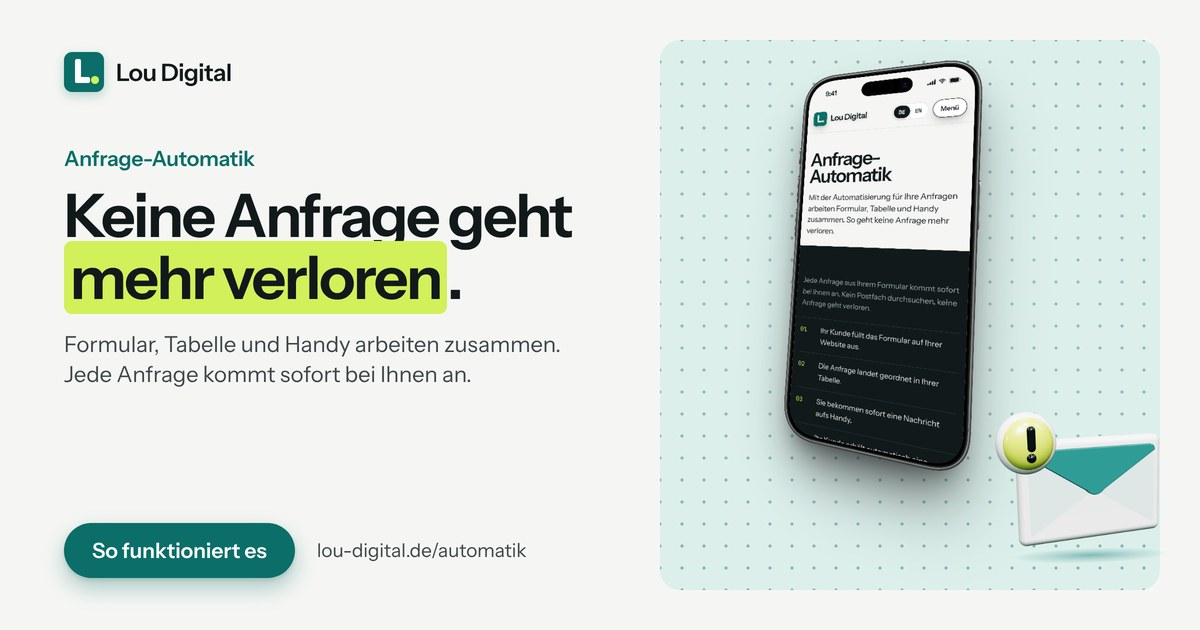
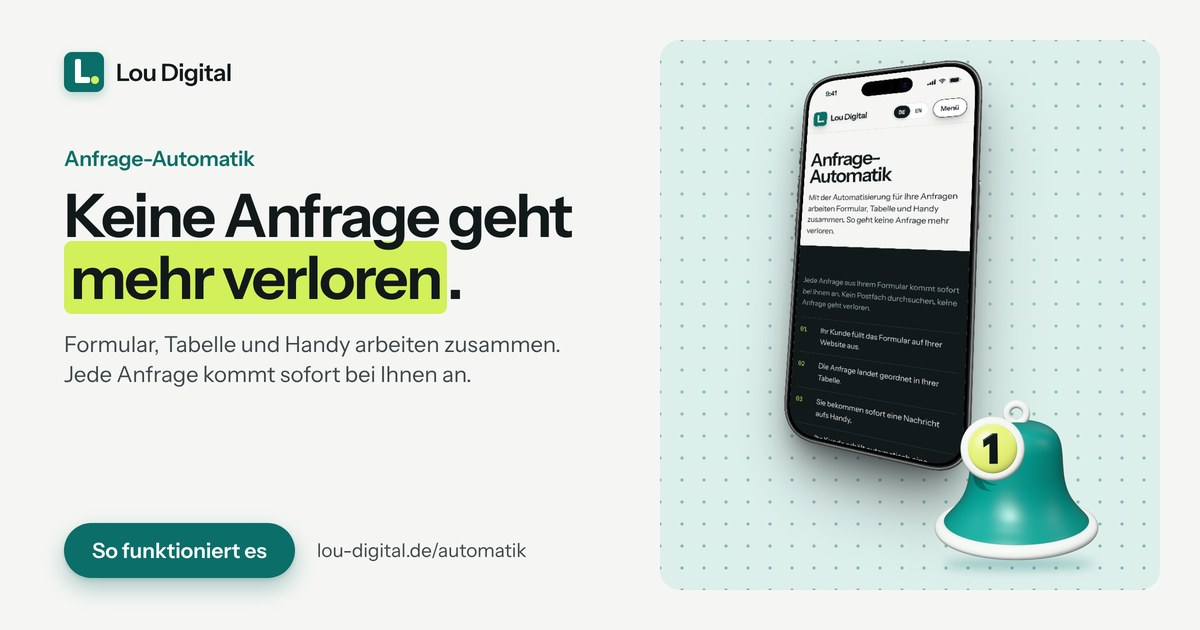
Vorschaubilder v5: Markierung hinter der Schrift, größere Website-Check-Ansicht, Glocke bei Automatik
Website-Check: Handy und Browser-Figur größer, Figur vorne über dem Paneelrand.
Automatik: 3D-Glocke statt Brief (Blick von links oben).
Generator und Glocke unter tools/og (gesperrt).

Claude-Session: https://claude.ai/code/session_012vLBxSfimEBeqLoeLwvpxn

Changed region(s): [[0.7708, 0.6333, 0.9867, 0.9048], [0.3083, 0.3619, 0.3392, 0.3921]]

diff --git a/tools/og/og5.js b/tools/og/og5.js
@@ -1,0 +1,105 @@
+// Seitenbezogene Vorschaubilder (og:image, 1200x630) für lou-digital.de, Version 5
+// v5: Limetten-Markierung liegt hinter der ganzen Überschrift (eigene Ebene), Website-Check mit größerem Handy und größerer Browser-Figur,
+// Automatik mit 3D-Glocke (three.js, Blick von links oben, /home/claude/work/3d/bell.html) statt Brief.
+// Geräte: echte Mockups aus Shots.so (iPhone 17 Black, MacBook Air 13), je Seite andere Ansicht:
+// Blickpunkt = Bildmitte: alles rechts davon zeigt seine linke Seite (Geräte mit Perspektive, 3D-Figuren gespiegelt),
+// Figuren nur unterhalb der Augenhöhe (man sieht ihre Oberseite). start = Laptop + Handy frontal,
+// website-check = Handy leicht nach links geneigt + Browser-Figur, kontakt = Handy gerade als Nahaufnahme + Brief,
+// pakete = Laptop frontal + Paket, automatik = Handy leicht nach rechts geneigt + Brief, websites = Laptop schräg.
+const { chromium } = require('playwright');
+const fs = require('fs');
+const path = require('path');
+const DIR = __dirname;
+const SITE = '/home/claude/lou-digital-site';
+const DEV = '/home/claude/work/shots';
+const f = p => 'file://' + p;
+const d = n => f(path.join(DEV, 'dev-' + n + '.png'));
+const fig = n => f(path.join(SITE, 'img', 'fig-' + n + '.webp'));
+const BELL = f('/home/claude/work/3d/out/fig-bell.png');
+
+const pages = [
+  { id: 'start', kicker: 'Für Unternehmen mit Anspruch', h: 'Websites und<br>Automatisierung<br><mark>aus Karlsruhe</mark>.', sub: 'Website in 7 Tagen, persönlich betreut. Vor Ort oder per Video.', cta: 'Jetzt ansehen', url: 'lou-digital.de',
+    layers: [
+      { src: d('start'), css: 'width:560px; left:592px; top:128px;', shadow: true },
+      { src: d('start-handy'), css: 'height:330px; left:972px; top:262px;', fade: true },
+    ] },
+  { id: 'website-check', kicker: 'Kostenloser Website-Check', h: 'Wie gut ist Ihre <mark>Website</mark> wirklich?', sub: '100 Prüfpunkte in neun Bereichen. Ergebnis in etwa 15 Sekunden, ohne Anmeldung.', cta: 'Website prüfen', url: 'lou-digital.de/website-check', clip: true,
+    layers: [ { src: d('website-check-pov'), css: 'height:640px; left:123px; top:-4px;' }, { src: fig('web'), css: 'width:300px; left:603px; top:318px;', fig: true, out: true } ] },
+  { id: 'kontakt', kicker: 'Anfrage an Lou Digital', h: 'Antwort in der Regel<br>innerhalb von <mark>24&nbsp;Stunden</mark>.', sub: 'Sie bekommen sofort eine Bestätigung und von mir eine persönliche Antwort.', cta: 'Anfrage senden', url: 'lou-digital.de/kontakt', clip: true,
+    layers: [ { src: d('kontakt-gerade'), css: 'height:780px; left:-5px; top:40px;' }, { src: fig('mail'), css: 'width:178px; left:640px; top:392px;', fig: true, out: true } ] },
+  { id: 'pakete', kicker: 'Pakete und Preise', h: 'Vorher wissen,<br><mark>was&nbsp;es&nbsp;kostet</mark>.', sub: 'Feste Grundpreise, klar abgegrenzte Betreuung, Rabatte verrechnen sich automatisch.', cta: 'Pakete ansehen', url: 'lou-digital.de/pakete',
+    layers: [ { src: d('pakete'), css: 'width:596px; left:590px; top:132px;', shadow: true }, { src: fig('box'), css: 'width:170px; left:1006px; top:392px;', fig: true } ] },
+  { id: 'automatik', kicker: 'Anfrage-Automatik', h: 'Keine Anfrage geht <mark>mehr verloren</mark>.', sub: 'Formular, Tabelle und Handy arbeiten zusammen. Jede Anfrage kommt sofort bei Ihnen an.', cta: 'So funktioniert es', url: 'lou-digital.de/automatik',
+    layers: [ { src: d('automatik-pov'), css: 'height:556px; left:730px; top:36px;' }, { src: BELL, css: 'width:225px; left:904px; top:372px;', front: true } ] },
+  { id: 'websites', kicker: 'Webdesign aus Karlsruhe', h: 'Ihre Website<br>in <mark>7&nbsp;Tagen</mark>.', sub: 'Fester Preis, feste Lieferzeit. Ein Onepager oder bis zu fünf Seiten mit Ihren Inhalten.', cta: 'Mehr erfahren', url: 'lou-digital.de/websites',
+    layers: [ { src: d('websites-schraeg'), css: 'width:604px; left:588px; top:124px;', shadow: true } ] },
+];
+
+const css = `
+@font-face { font-family: 'IS'; src: url('${f(SITE + '/fonts/instrument-sans-latin-wght-normal.woff2')}') format('woff2'); font-weight: 100 900; }
+* { box-sizing: border-box; margin: 0; padding: 0; }
+html, body { width: 1200px; height: 630px; overflow: hidden; background: #f5f6f3; font-family: 'IS', sans-serif; color: #11191b; -webkit-font-smoothing: antialiased; }
+.wrap { position: relative; width: 1200px; height: 630px; }
+.left { position: absolute; left: 64px; top: 52px; width: 560px; height: 526px; display: flex; flex-direction: column; z-index: 3; }
+.logo { display: flex; align-items: center; gap: 12px; font-weight: 600; font-size: 24px; letter-spacing: -0.02em; }
+.logo .sq { width: 40px; height: 40px; border-radius: 8px; background: #0b6e69; position: relative; box-shadow: 0 4px 10px rgba(11,110,105,.25); }
+.logo .sq b { position: absolute; left: 11px; top: 7px; width: 6px; height: 24px; background: #fff; border-radius: 2px; }
+.logo .sq i { position: absolute; left: 11px; top: 25px; width: 15px; height: 6px; background: #fff; border-radius: 2px; }
+.logo .sq u { position: absolute; left: 27px; top: 24px; width: 8px; height: 8px; background: #d2f05a; border-radius: 50%; }
+.kicker { margin-top: 54px; font-size: 21px; font-weight: 600; color: #0b6e69; letter-spacing: -0.005em; }
+h1 { margin-top: 14px; font-size: 60px; line-height: 1.04; font-weight: 640; letter-spacing: -0.035em; }
+h1 mark { background: #d2f05a; color: #11191b; padding: 0 .1em; border-radius: 8px; -webkit-box-decoration-break: clone; box-decoration-break: clone; }
+.sub { margin-top: 20px; font-size: 22px; line-height: 1.38; color: #3d474a; max-width: 520px; }
+.foot { margin-top: auto; display: flex; align-items: center; gap: 22px; }
+.btn { background: #0b6e69; color: #fff; font-weight: 600; font-size: 21px; padding: 15px 28px; border-radius: 999px; box-shadow: 0 10px 22px rgba(11,110,105,.32), 0 2px 4px rgba(17,25,27,.12); }
+.url { font-size: 19px; color: #3d474a; }
+.panel { position: absolute; right: 40px; top: 40px; width: 500px; height: 550px; border-radius: 20px; background: #dcefeb; overflow: hidden;
+  background-image: radial-gradient(#0b6e69 1.6px, transparent 1.7px); background-size: 22px 22px; background-position: 11px 11px; }
+.panel::after { content: ''; position: absolute; inset: 0; border-radius: 20px; background: radial-gradient(120% 90% at 50% 45%, rgba(220,239,235,.72), rgba(220,239,235,.5)); z-index: 0; }
+.panel .dev { z-index: 1; }
+.dev { position: absolute; z-index: 2; display: block; }
+.dev.shadow { filter: drop-shadow(0 26px 26px rgba(17,25,27,.20)) drop-shadow(0 6px 8px rgba(17,25,27,.10)); }
+.dev.fig { transform: scaleX(-1); z-index: 3; }
+.dev.front { z-index: 3; }
+.hwrap { position: relative; margin-top: 14px; }
+.hwrap h1 { margin-top: 0; }
+.hwrap.small h1 { font-size: 54px; }
+h1.hl { position: absolute; left: 0; top: 0; width: 100%; color: transparent; }
+h1.hl mark { color: transparent; }
+h1.tx { position: relative; z-index: 1; }
+h1.tx mark { background: transparent; }
+.panel .dev.fig { z-index: 2; }
+.dev.fade { -webkit-mask-image: linear-gradient(to bottom, #000 88%, transparent 100%); mask-image: linear-gradient(to bottom, #000 88%, transparent 100%); }
+`;
+
+const layerHtml = l => `<img class="dev${l.shadow ? ' shadow' : ''}${l.fade ? ' fade' : ''}${l.fig ? ' fig' : ''}${l.front ? ' front' : ''}" style="${l.css}" src="${l.src}">`;
+
+const html = p => `<!doctype html><html lang="de"><head><meta charset="utf-8"><style>${css}</style></head><body><div class="wrap">
+  <div class="left">
+    <div class="logo"><span class="sq"><b></b><i></i><u></u></span>Lou Digital</div>
+    <div class="kicker">${p.kicker}</div>
+    <div class="hwrap${p.id === 'kontakt' ? ' small' : ''}"><h1 class="hl" aria-hidden="true">${p.h}</h1><h1 class="tx">${p.h}</h1></div>
+    <p class="sub">${p.sub}</p>
+    <div class="foot"><span class="btn">${p.cta}</span><span class="url">${p.url}</span></div>
+  </div>
+  <div class="panel">${p.clip ? p.layers.filter(l => !l.out).map(layerHtml).join('') : ''}</div>
+  ${(p.clip ? p.layers.filter(l => l.out) : p.layers).map(layerHtml).join('\n  ')}
+  </div></body></html>`;
+
+(async () => {
+  const browser = await chromium.launch();
+  const ctx = await browser.newContext({ viewport: { width: 1200, height: 630 }, deviceScaleFactor: 2 });
+  const page = await ctx.newPage();
+  const only = process.argv[2];
+  for (const p of pages) {
+    if (only && p.id !== only) continue;
+    const file = path.join(DIR, `og5-${p.id}.html`);
+    fs.writeFileSync(file, html(p));
+    await page.goto('file://' + file, { waitUntil: 'load' });
+    await page.evaluate(() => document.fonts.ready);
+    await page.waitForTimeout(300);
+    await page.screenshot({ path: path.join(DIR, `og5-${p.id}@2x.png`) });
+    console.log('ok', p.id);
+  }
+  await browser.close();
+})();

diff --git a/tools/og/bell.html b/tools/og/bell.html
@@ -1,0 +1,90 @@
+<!doctype html><html><head><meta charset="utf-8">
+<style>html,body{margin:0;background:transparent}#c{width:900px;height:900px;display:block}</style>
+<script type="importmap">{"imports":{"three":"./node_modules/three/build/three.module.js","three/addons/":"./node_modules/three/examples/jsm/"}}</script>
+</head><body><canvas id="c" width="900" height="900"></canvas>
+<script type="module">
+// 3D-Glocke im Stil der Website-Figuren (Petrol, weiße Wülste, Limette), Blick von links oben
+import * as THREE from 'three';
+import { RoomEnvironment } from 'three/addons/environments/RoomEnvironment.js';
+const P = new URLSearchParams(location.search);
+const AZ = parseFloat(P.get('az') || '-30');   // Kamera links vom Objekt = linke Seite sichtbar
+const EL = parseFloat(P.get('el') || '16');    // Kamera über dem Objekt = Oberseite sichtbar
+const canvas = document.getElementById('c');
+const renderer = new THREE.WebGLRenderer({canvas, antialias:true, alpha:true, preserveDrawingBuffer:true});
+renderer.setPixelRatio(2); renderer.setSize(900, 900, false);
+renderer.setClearColor(0x000000, 0);
+renderer.toneMapping = THREE.NeutralToneMapping; renderer.toneMappingExposure = parseFloat(P.get('exp') || '0.95');
+renderer.outputColorSpace = THREE.SRGBColorSpace;
+renderer.shadowMap.enabled = true; renderer.shadowMap.type = THREE.PCFSoftShadowMap;
+const scene = new THREE.Scene();
+const pmrem = new THREE.PMREMGenerator(renderer);
+scene.environment = pmrem.fromScene(new RoomEnvironment(), 0.04).texture;
+
+const teal = new THREE.MeshPhysicalMaterial({color:(P.get('teal') ? '#' + P.get('teal') : '#07897f'), roughness:0.46, clearcoat:0.4, clearcoatRoughness:0.38, envMapIntensity:0.42});
+const white = new THREE.MeshPhysicalMaterial({color:'#eef1ee', roughness:0.38, clearcoat:0.5, clearcoatRoughness:0.3, envMapIntensity:0.6});
+const lime = new THREE.MeshPhysicalMaterial({color:'#d6e173', roughness:0.34, clearcoat:0.7, clearcoatRoughness:0.25, envMapIntensity:0.65});
+const ink = new THREE.MeshPhysicalMaterial({color:'#101718', roughness:0.25, clearcoat:1.0, clearcoatRoughness:0.1, envMapIntensity:1.0});
+
+const g = new THREE.Group();
+// Körper (Drehkörper aus einem weichen Profil)
+const prof = new THREE.SplineCurve([
+  new THREE.Vector2(0.000, 1.000), new THREE.Vector2(0.150, 0.992), new THREE.Vector2(0.270, 0.958),
+  new THREE.Vector2(0.350, 0.900), new THREE.Vector2(0.392, 0.820), new THREE.Vector2(0.410, 0.720),
+  new THREE.Vector2(0.420, 0.600), new THREE.Vector2(0.435, 0.480), new THREE.Vector2(0.465, 0.370),
+  new THREE.Vector2(0.515, 0.270), new THREE.Vector2(0.585, 0.180), new THREE.Vector2(0.650, 0.110),
+  new THREE.Vector2(0.690, 0.060), new THREE.Vector2(0.700, 0.030)]);
+const pts = prof.getPoints(120);
+pts.push(new THREE.Vector2(0.69, 0.0), new THREE.Vector2(0.0, 0.0));
+const body = new THREE.Mesh(new THREE.LatheGeometry(pts.map(p => new THREE.Vector2(p.x, p.y)).reverse(), 160), teal);
+body.castShadow = true; body.receiveShadow = true; g.add(body);
+// weißer Wulst unten
+const rim = new THREE.Mesh(new THREE.TorusGeometry(0.69, 0.062, 40, 200), white);
+rim.rotation.x = Math.PI/2; rim.position.y = 0.035; rim.castShadow = true; rim.receiveShadow = true; g.add(rim);
+// Klöppel
+// (Klöppel weggelassen, von oben ohnehin verdeckt)
+// Öse oben
+const loop = new THREE.Mesh(new THREE.TorusGeometry(0.085, 0.034, 32, 96), white);
+loop.position.set(0, 1.07, 0); loop.rotation.y = AZ * Math.PI / 180; loop.castShadow = true; g.add(loop);
+
+// Abzeichen mit „1“ (wie das Abzeichen am Brief: Limette, weißer Ring, dunkle Ziffer)
+const badge = new THREE.Group();
+const disc = new THREE.Mesh(new THREE.CylinderGeometry(0.205, 0.205, 0.07, 96), lime);
+disc.rotation.x = Math.PI/2; badge.add(disc);
+const dome = new THREE.Mesh(new THREE.SphereGeometry(0.205, 96, 48, 0, Math.PI*2, 0, Math.PI/2), lime);
+dome.rotation.x = Math.PI/2; dome.scale.set(1, 0.32, 1); dome.position.z = 0.035; badge.add(dome);
+const ring = new THREE.Mesh(new THREE.TorusGeometry(0.215, 0.05, 40, 120), white);
+ring.position.z = 0.0; badge.add(ring);
+// Ziffer 1 als Fläche mit Fase
+const s = new THREE.Shape();
+s.moveTo(0.012, 0.115); s.lineTo(0.040, 0.115); s.lineTo(0.040, -0.115); s.lineTo(-0.012, -0.115);
+s.lineTo(-0.012, 0.050); s.lineTo(-0.060, 0.020); s.lineTo(-0.060, 0.068); s.lineTo(0.012, 0.115);
+const one = new THREE.Mesh(new THREE.ExtrudeGeometry(s, {depth:0.03, bevelEnabled:true, bevelThickness:0.012, bevelSize:0.008, bevelSegments:6, curveSegments:12}), ink);
+one.position.set(-0.010, 0.0, 0.085); badge.add(one);
+badge.traverse(o => { if (o.isMesh) { o.castShadow = true; o.receiveShadow = true; } });
+badge.position.set(-0.40, 0.86, 0.30);
+// zur Kamera drehen
+const az = AZ * Math.PI/180, el = EL * Math.PI/180;
+badge.rotation.set(-el*0.9, az*0.9, 0, 'YXZ');
+g.add(badge);
+scene.add(g);
+
+// Licht
+const key = new THREE.DirectionalLight(0xffffff, parseFloat(P.get('key') || '2.3')); key.position.set(-3.2, 4.2, 3.4); key.castShadow = true;
+key.shadow.mapSize.set(2048, 2048); key.shadow.camera.left = -2; key.shadow.camera.right = 2; key.shadow.camera.top = 2; key.shadow.camera.bottom = -2;
+key.shadow.radius = 8; key.shadow.bias = -0.0004; key.shadow.normalBias = 0.01; scene.add(key);
+const fill = new THREE.DirectionalLight(0xf2fffd, 0.12); fill.position.set(3, 1.5, 2); scene.add(fill);
+scene.add(new THREE.AmbientLight(0xffffff, 0.05));
+scene.environmentRotation = new THREE.Euler(0, parseFloat(P.get('envrot') || '-0.9'), 0);
+scene.environmentIntensity = parseFloat(P.get('env') || '1.0');
+// weicher Bodenschatten in Petrol
+const ground = new THREE.Mesh(new THREE.PlaneGeometry(10, 10), new THREE.ShadowMaterial({color: 0x0b6e69, opacity: P.get('noground') ? 0.0 : 0.30}));
+ground.rotation.x = -Math.PI/2; ground.position.y = -0.22; ground.receiveShadow = true; scene.add(ground);
+
+// Kamera: links oben vor dem Objekt
+const cam = new THREE.PerspectiveCamera(19, 1, 0.1, 100);
+const dist = 6.1;
+cam.position.set(Math.sin(az)*Math.cos(el)*dist, 0.45 + Math.sin(el)*dist, Math.cos(az)*Math.cos(el)*dist);
+cam.lookAt(0, 0.42, 0);
+renderer.render(scene, cam);
+window.__done = true;
+</script></body></html>

diff --git a/tools/og/screens.js b/tools/og/screens.js
@@ -1,0 +1,86 @@
+// Echte Bildschirminhalte für Shots.so: iPhone 17 (402x874 pt, @3x) mit Statusleiste,
+// MacBook Air 13 (1280x800 pt, @2x) mit schlichter Browserleiste. Quelle: lokale Lou-Website.
+const { chromium } = require('playwright');
+const fs = require('fs');
+const path = require('path');
+const OUT = path.join(__dirname, 'screens'); fs.mkdirSync(OUT, { recursive: true });
+const BASE = 'http://127.0.0.1:8765';
+const FONT = 'file:///home/claude/lou-digital-site/fonts/instrument-sans-latin-wght-normal.woff2';
+const pages = [
+  ['start', '/start.html'], ['website-check', '/website-check.html'], ['kontakt', '/kontakt.html'],
+  ['pakete', '/pakete.html'], ['automatik', '/automatik.html'], ['websites', '/websites.html'],
+];
+// Desktop-Ausschnitt je Seite (Scrollposition in px), z. B. Paketkarten statt Einleitungstext
+const DSCROLL = { pakete: 380 };
+const ONLY = process.env.ONLY ? process.env.ONLY.split(',') : null;
+const URLS = { start: 'lou-digital.de', 'website-check': 'lou-digital.de/website-check', kontakt: 'lou-digital.de/kontakt', pakete: 'lou-digital.de/pakete', automatik: 'lou-digital.de/automatik', websites: 'lou-digital.de/websites' };
+
+async function shoot(browser, url, w, h, dsf, file, scrollY = 0) {
+  const ctx = await browser.newContext({ viewport: { width: w, height: h }, deviceScaleFactor: dsf, reducedMotion: 'reduce', locale: 'de-DE' });
+  const pg = await ctx.newPage();
+  await pg.route('**/*', r => (r.request().url().startsWith(BASE) ? r.continue() : r.abort()));
+  await pg.goto(BASE + url, { waitUntil: 'networkidle' });
+  await pg.addStyleTag({ content: '.fb, .fb-tab, .fb-panel { display: none !important; }' });
+  if (scrollY) { await pg.evaluate(v => window.scrollTo(0, v), scrollY); }
+  await pg.waitForTimeout(2500);
+  await pg.screenshot({ path: file });
+  await ctx.close();
+}
+
+(async () => {
+  const browser = await chromium.launch();
+  for (const [id, url] of pages) {
+    if (ONLY && !ONLY.includes(id)) continue;
+    // Handy: Inhalt 402x812 + Statusleiste 62
+    const mInner = path.join(OUT, `_m-${id}.png`);
+    await shoot(browser, url, 402, 812, 3, mInner);
+    // Laptop: Inhalt 1280x748 + Browserleiste 52
+    const dInner = path.join(OUT, `_d-${id}.png`);
+    await shoot(browser, url, 1280, 748, 2, dInner, DSCROLL[id] || 0);
+
+    const ctx = await browser.newContext({ viewport: { width: 402, height: 874 }, deviceScaleFactor: 3 });
+    const pg = await ctx.newPage();
+    const mHtml = path.join(OUT, `_m-${id}.html`);
+    fs.writeFileSync(mHtml, `<!doctype html><html><head><style>
+      @font-face{font-family:IS;src:url('${FONT}') format('woff2');font-weight:100 900}
+      *{margin:0;padding:0;box-sizing:border-box} body{width:402px;height:874px;background:#f5f6f3;font-family:IS,sans-serif;overflow:hidden}
+      .sb{height:62px;display:flex;align-items:center;justify-content:space-between;padding:6px 30px 0 44px;color:#11191b}
+      .t{font-weight:600;font-size:17px;letter-spacing:-.01em}
+      .ic{display:flex;gap:7px;align-items:center}
+      img{display:block;width:402px;height:812px}
+    </style></head><body>
+      <div class="sb"><span class="t">9:41</span><span class="ic">
+        <svg width="18" height="12" viewBox="0 0 18 12"><rect x="0" y="8" width="3" height="4" rx="1" fill="#11191b"/><rect x="5" y="5.5" width="3" height="6.5" rx="1" fill="#11191b"/><rect x="10" y="3" width="3" height="9" rx="1" fill="#11191b"/><rect x="15" y="0" width="3" height="12" rx="1" fill="#11191b"/></svg>
+        <svg width="16" height="12" viewBox="0 0 16 12"><path d="M8 11.5 5.6 9.1a3.4 3.4 0 0 1 4.8 0z M2.9 6.4a7.2 7.2 0 0 1 10.2 0l-1.3 1.3a5.4 5.4 0 0 0-7.6 0z M.3 3.8a10.9 10.9 0 0 1 15.4 0l-1.3 1.3a9.1 9.1 0 0 0-12.8 0z" fill="#11191b"/></svg>
+        <svg width="27" height="13" viewBox="0 0 27 13"><rect x=".5" y=".5" width="22" height="12" rx="3.5" fill="none" stroke="#11191b" opacity=".4"/><rect x="2" y="2" width="19" height="9" rx="2" fill="#11191b"/><rect x="24" y="4.5" width="2" height="4" rx="1" fill="#11191b" opacity=".4"/></svg>
+      </span></div>
+      <img src="file://${mInner}">
+    </body></html>`);
+    await pg.goto('file://' + mHtml, { waitUntil: 'load' });
+    await pg.evaluate(() => document.fonts.ready);
+    await pg.screenshot({ path: path.join(OUT, `m-${id}.png`) });
+    await ctx.close();
+
+    const ctx2 = await browser.newContext({ viewport: { width: 1280, height: 800 }, deviceScaleFactor: 2 });
+    const pg2 = await ctx2.newPage();
+    const dHtml = path.join(OUT, `_d-${id}.html`);
+    fs.writeFileSync(dHtml, `<!doctype html><html><head><style>
+      @font-face{font-family:IS;src:url('${FONT}') format('woff2');font-weight:100 900}
+      *{margin:0;padding:0;box-sizing:border-box} body{width:1280px;height:800px;background:#fff;font-family:IS,-apple-system,sans-serif;overflow:hidden}
+      .tb{height:52px;background:#ececee;border-bottom:1px solid #d9d9dc;display:flex;align-items:center;padding:0 16px;position:relative}
+      .tl{display:flex;gap:8px} .tl i{width:12px;height:12px;border-radius:50%;display:block}
+      .url{position:absolute;left:50%;transform:translateX(-50%);width:560px;height:32px;background:#dfdfe2;border-radius:9px;display:flex;align-items:center;justify-content:center;gap:7px;font-size:14px;color:#2b2f31}
+      img{display:block;width:1280px;height:748px}
+    </style></head><body>
+      <div class="tb"><span class="tl"><i style="background:#ff5f57"></i><i style="background:#febc2e"></i><i style="background:#28c840"></i></span>
+      <span class="url"><svg width="10" height="12" viewBox="0 0 10 12"><rect x=".5" y="5" width="9" height="6.5" rx="1.5" fill="#6b7073"/><path d="M2.5 5V3.5a2.5 2.5 0 0 1 5 0V5" fill="none" stroke="#6b7073" stroke-width="1.2"/></svg>${URLS[id]}</span></div>
+      <img src="file://${dInner}">
+    </body></html>`);
+    await pg2.goto('file://' + dHtml, { waitUntil: 'load' });
+    await pg2.evaluate(() => document.fonts.ready);
+    await pg2.screenshot({ path: path.join(OUT, `d-${id}.png`) });
+    await ctx2.close();
+    console.log('ok', id);
+  }
+  await browser.close();
+})();

diff --git a/automatik.html b/automatik.html
@@ -16,7 +16,7 @@
 <meta property="og:description" content="Automatisierung für Ihr Kontaktformular. Jede Anfrage landet in einer Tabelle und als Nachricht auf Ihrem Handy, und der Kunde bekommt sofort eine Bestätigung. Eingerichtet in 5 Tagen.">
 <meta property="og:type" content="website">
 <meta property="og:url" content="https://lou-digital.de/automatik">
-<meta property="og:image" content="https://lou-digital.de/img/og-automatik.jpg?v=4">
+<meta property="og:image" content="https://lou-digital.de/img/og-automatik.jpg?v=5">
 <meta property="og:image:width" content="1200">
 <meta property="og:image:height" content="630">
 <meta property="og:image:alt" content="Anfrage-Automatik von Lou Digital: Formular, Tabelle und Handy arbeiten zusammen">

diff --git a/website-check.html b/website-check.html
@@ -16,7 +16,7 @@
 <meta property="og:description" content="Kostenloser Website-Check mit 100 Prüfpunkten zu Sicherheit, Recht, Handy, Google, Tempo und Anbindungen wie Formular, Karte und Buchung. Das Ergebnis kommt sofort.">
 <meta property="og:type" content="website">
 <meta property="og:url" content="https://lou-digital.de/website-check">
-<meta property="og:image" content="https://lou-digital.de/img/og-website-check.jpg?v=4">
+<meta property="og:image" content="https://lou-digital.de/img/og-website-check.jpg?v=5">
 <meta property="og:image:width" content="1200">
 <meta property="og:image:height" content="630">
 <meta property="og:image:alt" content="Kostenloser Website-Check von Lou Digital: 100 Prüfpunkte, Ergebnis in etwa 15 Sekunden">

diff --git a/tools/og/render_bell.py b/tools/og/render_bell.py
@@ -1,0 +1,22 @@
+import sys, subprocess, time, base64
+from playwright.sync_api import sync_playwright
+q = sys.argv[1] if len(sys.argv) > 1 else ''
+out = sys.argv[2] if len(sys.argv) > 2 else '/home/claude/work/3d/out/fig-bell.png'
+srv = subprocess.Popen([sys.executable, '-m', 'http.server', '8099', '--bind', '127.0.0.1'], cwd='/home/claude/work/3d', stdout=subprocess.DEVNULL, stderr=subprocess.DEVNULL)
+time.sleep(1.0)
+try:
+    with sync_playwright() as p:
+        b = p.chromium.launch(args=['--use-angle=swiftshader', '--enable-unsafe-swiftshader', '--ignore-gpu-blocklist'])
+        pg = b.new_page(viewport={'width': 900, 'height': 900}, device_scale_factor=1)
+        msgs = []
+        pg.on('console', lambda m: msgs.append(m.text))
+        pg.on('pageerror', lambda e: msgs.append('ERR ' + str(e)))
+        pg.goto('http://127.0.0.1:8099/bell.html' + q)
+        pg.wait_for_function('window.__done === true', timeout=180000)
+        pg.wait_for_timeout(300)
+        data = pg.evaluate("document.getElementById('c').toDataURL('image/png')")
+        open(out, 'wb').write(base64.b64decode(data.split(',')[1]))
+        print('ok', out, msgs[:5])
+        b.close()
+finally:
+    srv.terminate()

diff --git a/tools/og/README.md b/tools/og/README.md
@@ -1,0 +1,9 @@
+# Vorschaubilder (og:image) erzeugen
+
+Nur Werkzeuge, nicht öffentlich (`tools/` ist per `.htaccess` gesperrt).
+
+- `screens.js`: Screenshots der Seiten (iPhone 1206×2622, MacBook 2560×1600) vom lokalen Server (Port 8765 im Repo).
+- Geräte-Mockups kommen aus Shots.so (iPhone 17 Black, MacBook Air 13), zugeschnitten als `dev-*.png` (im Container unter `/home/claude/work/shots/`).
+- `og5.js`: baut die sechs Vorschaubilder 1200×630 (@2x) aus Text, Mockups und 3D-Figuren. Danach auf 1200×630 verkleinern, JPG Qualität 88, nach `img/og-<seite>.jpg`, `?v=` im `og:image` der Seite erhöhen, LinkedIn Post Inspector erneut ausführen.
+- `bell.html` + `render_bell.py`: 3D-Glocke (three.js, Blick von links oben) für die Automatik-Vorschau; `fig-bell.webp` ist das Ergebnis mit weichem Schatten.
+- Regeln: Blickpunkt ist die Bildmitte (rechts sitzende Dinge zeigen ihre linke Seite, Figuren unterhalb der Augenhöhe); die Limetten-Markierung liegt hinter der ganzen Überschrift (eigene Ebene), damit Unterlängen der Zeile darüber sichtbar bleiben.
